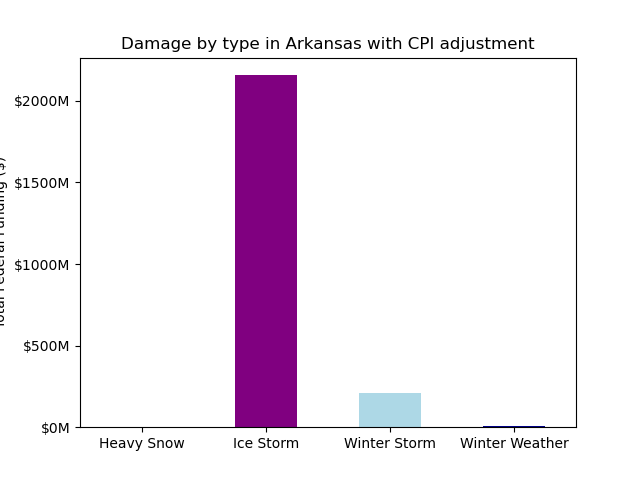
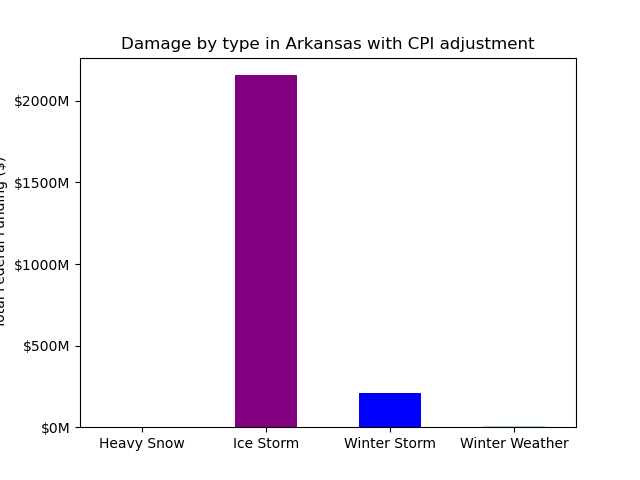
ice storm stuff and pie charts

Changed region(s): [[0.5625, 0.8125, 0.6562, 0.9062]]

diff --git a/dd_piechart.py b/dd_piechart.py
@@ -1,0 +1,30 @@
+import pandas as pd
+import os 
+import matplotlib.pyplot as plt
+
+
+dir = os.path.dirname(os.path.abspath(__file__))
+df = pd.read_csv(dir+'\\Storm Data CPI.csv')
+
+event_types = ["Heavy Snow", "Winter Storm", "Winter Weather", "Ice Storm"]
+color=['darkblue','blue','lightblue','purple']
+
+
+event_counts = df[df['EVENT_TYPE'].isin(event_types)]['EVENT_TYPE'].value_counts()
+counts = [event_counts.get(event, 0) for event in event_types]
+
+
+funding_by_type = df.groupby('EVENT_TYPE')['DAMAGE_PROPERTY_CPI'].sum()
+funding_filtered = funding_by_type[["Heavy Snow", "Winter Storm", "Winter Weather", "Ice Storm"]]
+
+costs = funding_filtered.tolist()
+
+plt.pie(counts, labels=event_types,colors=color, autopct='%1.1f%%')
+plt.title('Number of reports')
+plt.savefig(dir+'\\Pie chart counts.png')
+plt.show()
+
+
+plt.pie(costs, labels=event_types,colors=color, autopct='%1.1f%%')
+plt.title('Property damage ($ - CPI Adjusted)')
+plt.savefig(dir+'\\Pie chart damages.png')

diff --git a/ee_lengthversusdmg.py b/ee_lengthversusdmg.py
@@ -17,7 +17,8 @@ for i in range(len(df)):
     df.loc[i,'LENGTH_IN_HOURS'] = hourdiff
 
 fig, ax1 = plt.subplots(figsize = (6, 6))
-filtered_df = df[df['DAMAGE_PROPERTY_CPI'] >= 0]
+# filtered_df = df[df['DAMAGE_PROPERTY_CPI'] >= 0]
+filtered_df = df[df['EVENT_TYPE'] == 'Ice Storm']
 
 slope, intercept, r, p, se = linregress(filtered_df['DAMAGE_PROPERTY_CPI'], filtered_df['LENGTH_IN_HOURS'])
 
@@ -28,6 +29,6 @@ ax1.set_xlabel('Property Damage (CPI Adjusted)')
 ax1.set_ylabel('Length of Event in Hours')
 xticks = ax1.get_xticks()
 ax1.set_xticklabels([f'${x/1e6:.0f}M' for x in xticks])
-plt.title('Property Damage vs Length of Storm of AR Winter-Related Events')
+plt.title('Property Damage vs Length of Storm of AR Ice Storm Events')
 plt.legend()
-plt.savefig(dir+'\\Damage versus Length of Storm.png')
+plt.savefig(dir+'\\Damage versus Length of Storm Ice Storms.png')

diff --git a/ee_sizeversusdmg.py b/ee_sizeversusdmg.py
@@ -16,7 +16,8 @@ for i in range(len(df)):
     df.loc[i,'TOTAL_AREA'] = area
 
 fig, ax1 = plt.subplots(figsize = (6, 6))
-filtered_df = df[df['DAMAGE_PROPERTY_CPI'] >= 0]
+# filtered_df = df[df['DAMAGE_PROPERTY_CPI'] >= 0]
+filtered_df = df[df['EVENT_TYPE'] == 'Ice Storm']
 
 slope, intercept, r, p, se = linregress(filtered_df['DAMAGE_PROPERTY_CPI'], filtered_df['TOTAL_AREA'])
 
@@ -27,6 +28,6 @@ ax1.set_xlabel('Property Damage (CPI Adjusted)')
 ax1.set_ylabel('Area Affected in Square Miles')
 xticks = ax1.get_xticks()
 ax1.set_xticklabels([f'${x/1e6:.0f}M' for x in xticks])
-plt.title('Property Damage vs Total Area of AR Winter-Related Events')
+plt.title('Property Damage vs Total Area of AR Ice Storm Events')
 plt.legend()
-plt.savefig(dir+'\\Damage versus Size of Storm.png')
+plt.savefig(dir+'\\Damage versus Size of Storm Ice Storm.png')

diff --git a/dd_plotdmgbytype.py b/dd_plotdmgbytype.py
@@ -6,9 +6,9 @@ dir = os.path.dirname(os.path.abspath(__file__))
 df = pd.read_csv(dir+'\\Storm Data CPI.csv')
 
 funding_by_type = df.groupby('EVENT_TYPE')['DAMAGE_PROPERTY_CPI'].sum()
-funding_filtered = funding_by_type[['Winter Storm', 'Ice Storm', 'Winter Weather','Ice Storm']]
+funding_filtered = funding_by_type[["Heavy Snow", "Winter Storm", "Winter Weather", "Ice Storm"]]
 
-ax = funding_by_type.plot(kind='bar', color=['blue','purple','lightblue','darkblue'])
+ax = funding_by_type.plot(kind='bar', color=['darkblue','purple','blue','lightblue'])
 
 plt.title('Damage by type in Arkansas with CPI adjustment')
 plt.ylabel('Total Federal Funding ($)')

diff --git a/dd_plotyearlyepisodes.py b/dd_plotyearlyepisodes.py
@@ -11,7 +11,7 @@ df['BEGIN_DATE_TIME'] = pd.to_datetime(df['BEGIN_DATE_TIME'])
 df['YEAR'] = df['BEGIN_DATE_TIME'].dt.year
 
 yearly_events = df.groupby('YEAR')['EPISODE_ID'].nunique().sort_index()
-
+years = list(range(1996, 2025))
 fig, ax1 = plt.subplots(figsize = (10, 6))
 plt.bar(years, yearly_events.tolist(), color='skyblue')
 
